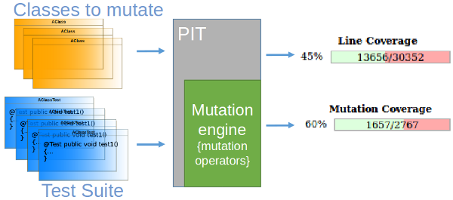
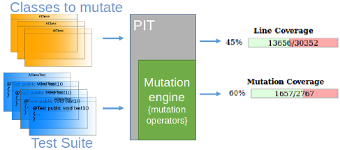
updating v1.1.0 README

diff --git a/README.md b/README.md
@@ -21,7 +21,7 @@ test suite:
 
 PMP runs a test suite, mutating classes of all dependencies of modules located in
 the same project tree:
-![PMP project](docs/pit_project.png)
+![PMP project](docs/pmp_project.png)
 
 PMP just extends PIT, it doesn't redefine PIT features, it uses PIT classes. PMP runs
 test suite as PIT does, just extending the list of classes to be mutated the whole
